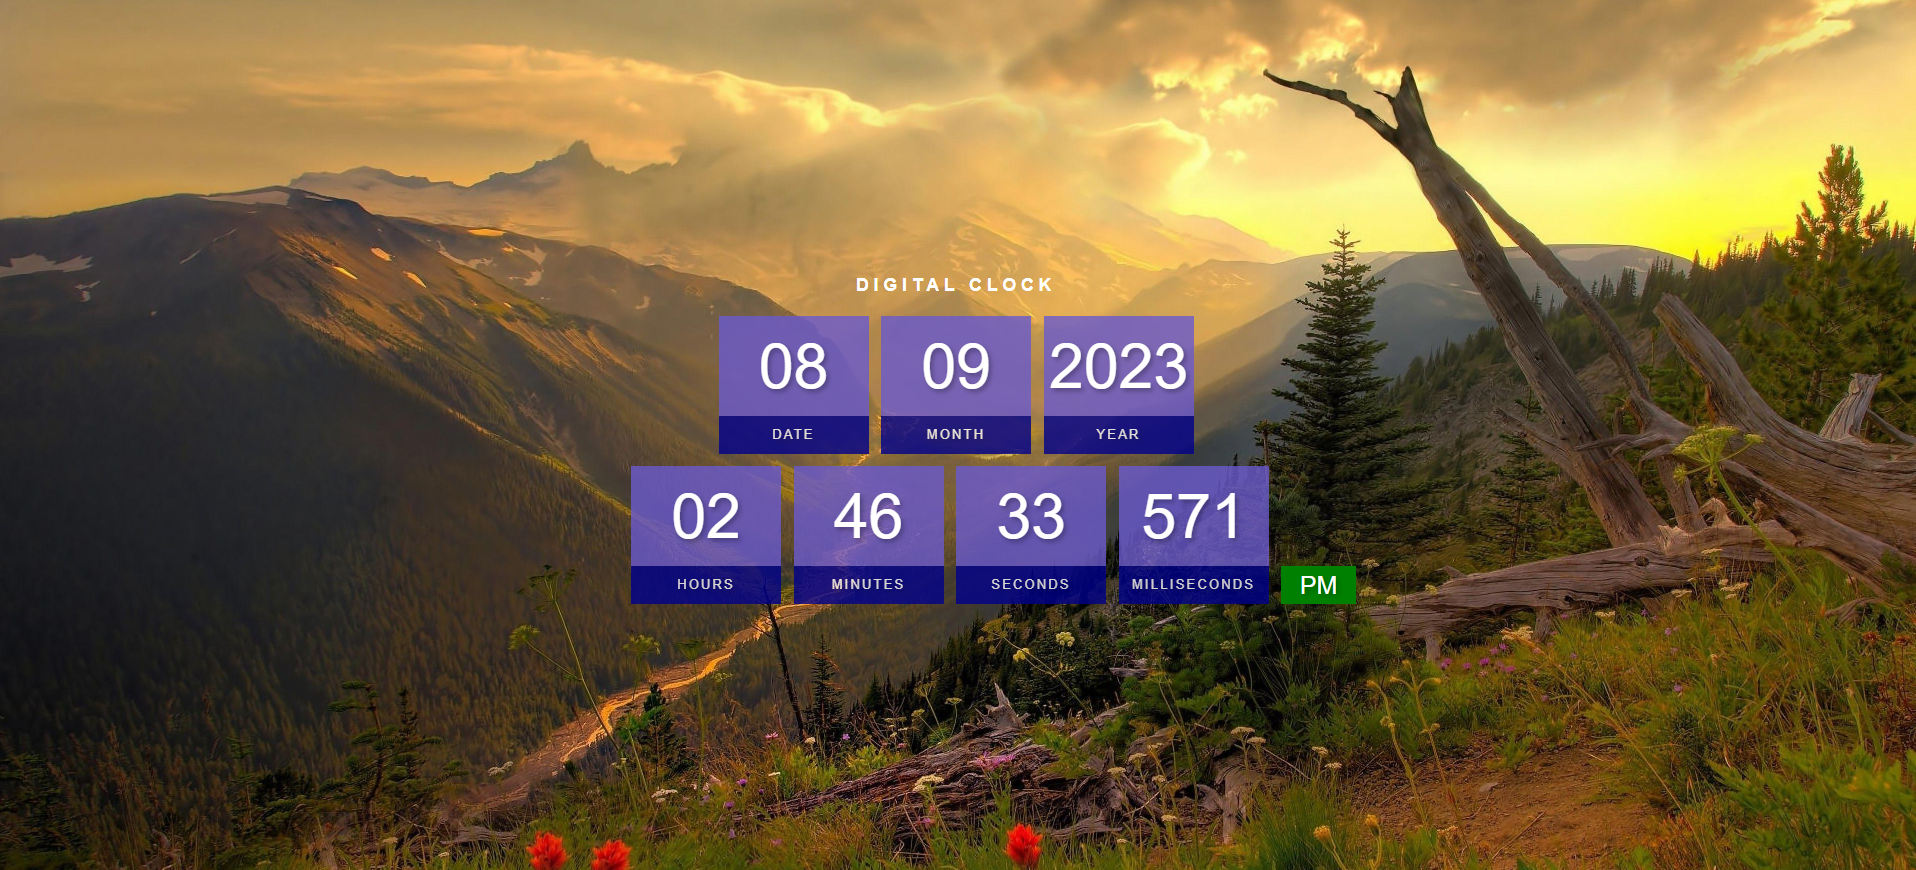
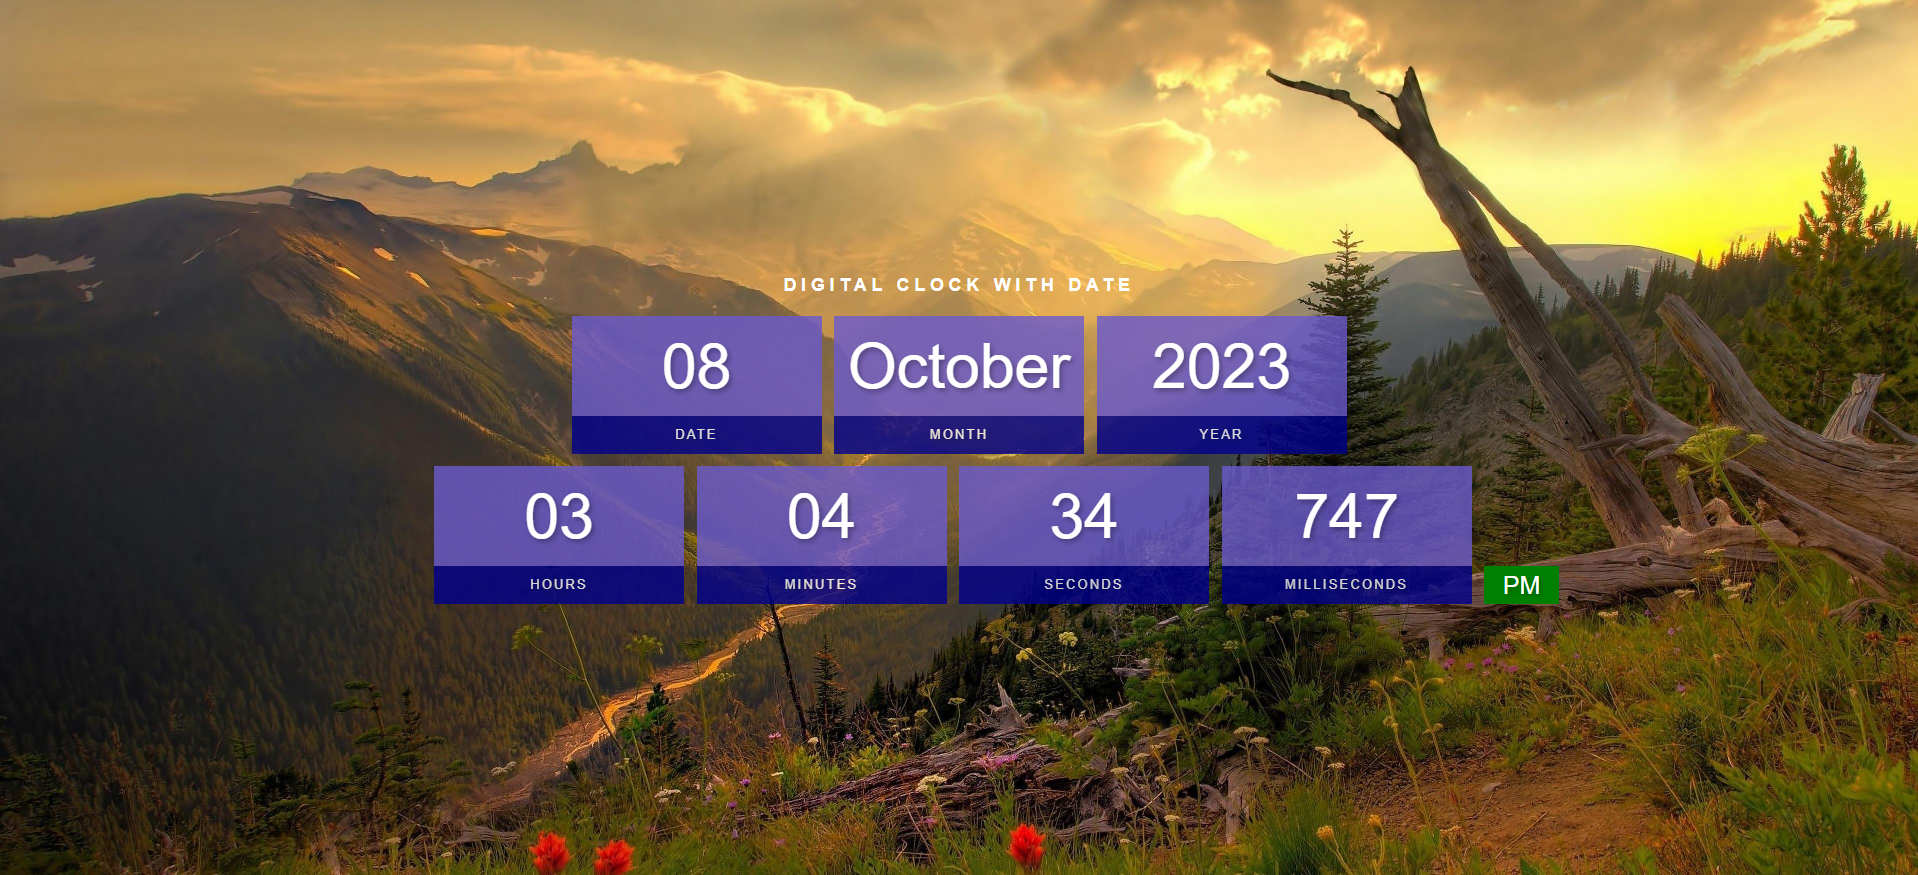
Add files via upload

Changed region(s): [[0.0, 0.1552, 1.0, 1.0], [0.0924, 0.2172, 0.2156, 0.2483], [0.6775, 0.0931, 0.739, 0.1552]]

diff --git a/Digital Clock/javascript.js b/Digital Clock/javascript.js
@@ -1,25 +1,26 @@
-const dateEl = document.getElementById("date")
-const monthEl = document.getElementById("month")
-const yearEl = document.getElementById("year")
-const hoursEl = document.getElementById("hours")
-const minutesEl = document.getElementById("minutes")
-const secondsEl = document.getElementById("seconds")
-const millisecondsEl = document.getElementById("milliseconds")
-const ampmEl = document.getElementById("ampm")
+const dateEl = document.getElementById("date");
+const monthEl = document.getElementById("month");
+const yearEl = document.getElementById("year");
+const hoursEl = document.getElementById("hours");
+const minutesEl = document.getElementById("minutes");
+const secondsEl = document.getElementById("seconds");
+const millisecondsEl = document.getElementById("milliseconds");
+const ampmEl = document.getElementById("ampm");
 
 function updateClock() {
 
+    const monthNames = ["January", "February", "March", "April", "May", "June", "July", "August", "September", "October", "November", "December"];
     //! The new Date().getHours(), new Date().getMinutes(), and new Date().getSeconds() 
     //! methods return the current hour, minute, and second, respectively.
-    let d = new Date().getDate()
-    let mo = new Date().getMonth()
-    let y = new Date().getFullYear()
-    let h = new Date().getHours()
-    let m = new Date().getMinutes()
-    let s = new Date().getSeconds()
-    let ms = new Date().getMilliseconds()
-    
-    let ampm = "AM"
+    let d = new Date().getDate();
+    let mo = new Date().getMonth() + 1;
+    let mn = monthNames[mo - 1];
+    let y = new Date().getFullYear();
+    let h = new Date().getHours();
+    let m = new Date().getMinutes();
+    let s = new Date().getSeconds();
+    let ms = new Date().getMilliseconds();
+    let ampm = "AM";
   
     if (h > 12) {
         h = h - 12
@@ -34,7 +35,7 @@ function updateClock() {
     ms = ms < 10 ? "0" + ms : ms;
 
     dateEl.innerText = d;
-    monthEl.innerText = mo;
+    monthEl.innerText = mn;
     yearEl.innerText = y;
     hoursEl.innerText = h;
     minutesEl.innerText = m;
@@ -47,5 +48,4 @@ function updateClock() {
         updateClock()
     }, 1)
 }
-
 updateClock()

diff --git a/Digital Clock/clock.html b/Digital Clock/clock.html
@@ -10,7 +10,7 @@
 </head>
 
 <body>
-    <h2>Digital Clock</h2>
+    <h2>Digital Clock With Date</h2>
     <div class="clock">
         <div>
             <span id="date">00</span>

diff --git a/Digital Clock/style.css b/Digital Clock/style.css
@@ -29,7 +29,7 @@ h2 {
 }
 
 .clock span{
-    width: 120px;
+    width: 200px;
     height: 80px;
     background-color: rgba(106, 90, 205, 0.8);
     color: white;
